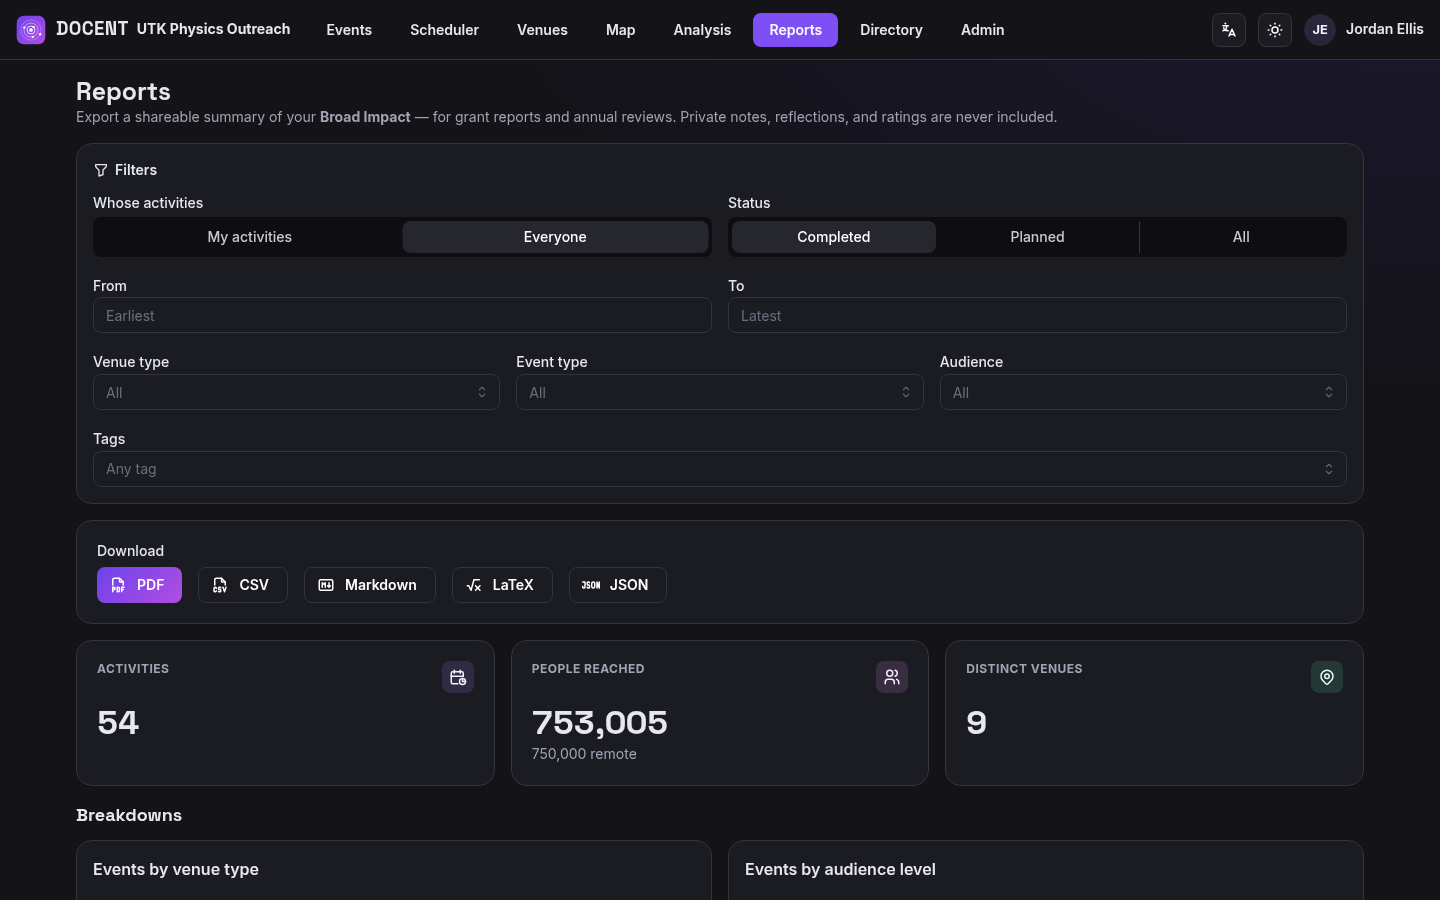
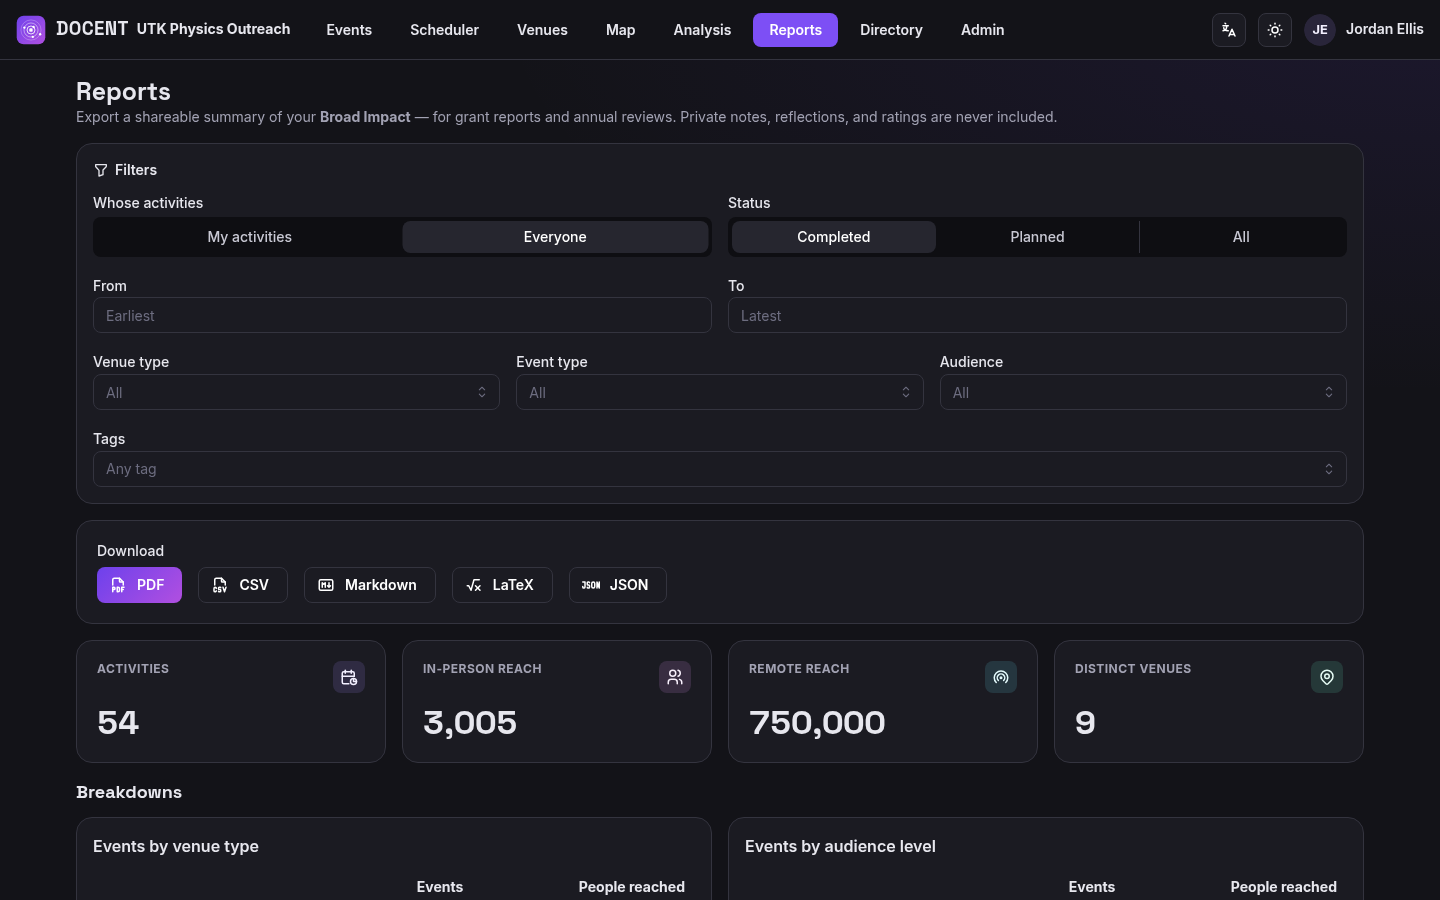
Refine host-relationship wording and split remote vs in-person reach
- #40: relabel the "reached out" host relationship to "Host reached out to
  us" (7 locales) — it means the *host* contacted the communicator, the
  mirror image of cold outreach (communicator → host). Sharpen the model
  comment to make the direction explicit.
- Analysis: show people reached as two separate tiles — in-person and
  remote / broadcast — and drop the average-rating tile to make room.
- Analysis: the "people reached over time" chart now uses two y-axes
  (in-person on the left, remote / broadcast on the right, each axis tinted
  to its series) so a huge broadcast scale no longer flattens the in-person
  line. Axis ticks use compact notation (e.g. 600K).
- Reports: split the people-reached tile into in-person and remote too.
- Regenerate the analysis and reports screenshots.

Claude-Session: https://claude.ai/code/session_01XEQAvLSiFRTpLbrGL8uQrW

diff --git a/frontend/src/pages/DashboardPage.tsx b/frontend/src/pages/DashboardPage.tsx
@@ -20,11 +20,11 @@ import {
 } from '@mantine/core';
 import { useDebouncedValue } from '@mantine/hooks';
 import {
+  IconBroadcast,
   IconCalendarStats,
   IconInfoCircle,
   IconMapPin,
   IconSearch,
-  IconStar,
   IconUserBolt,
   IconUsers,
 } from '@tabler/icons-react';
@@ -186,13 +186,20 @@ function TimePanel({
   // One or more series. A line uses `color` unless it sets its own; `dashed`
   // renders it as a dashed segment (the future/scheduled tail — #28). When a
   // line sets `name`, a legend is shown and the tooltip labels each series (the
-  // in-person vs remote split — #38).
-  lines: { key: string; dashed?: boolean; color?: string; name?: string }[];
+  // in-person vs remote split — #38). A line on `axis: 'right'` draws a second
+  // y-axis so a huge broadcast scale doesn't flatten the in-person line (#38).
+  lines: { key: string; dashed?: boolean; color?: string; name?: string; axis?: 'left' | 'right' }[];
   color: string;
   viz: typeof VIZ_LIGHT;
   caption?: string;
 }) {
   const labelFor = (t: number) => data.find((d) => d.t === t)?.label ?? '';
+  const rightLine = lines.find((ln) => ln.axis === 'right');
+  const hasRight = !!rightLine;
+  const leftColor = (lines.find((ln) => (ln.axis ?? 'left') === 'left')?.color ?? color) as string;
+  const rightColor = (rightLine?.color ?? color) as string;
+  const compact = (n: number) =>
+    new Intl.NumberFormat(undefined, { notation: 'compact', maximumFractionDigits: 1 }).format(n);
   return (
     <Card withBorder p="md">
       <Group justify="space-between" gap="xs" wrap="nowrap" mb="xs">
@@ -219,13 +226,28 @@ function TimePanel({
             minTickGap={8}
           />
           <YAxis
+            yAxisId="left"
             stroke={viz.axis}
-            tick={{ fill: viz.mutedInk, fontSize: 12 }}
+            tick={{ fill: hasRight ? leftColor : viz.mutedInk, fontSize: 12 }}
             tickLine={false}
             axisLine={false}
             width={48}
             allowDecimals={false}
+            tickFormatter={hasRight ? compact : undefined}
           />
+          {hasRight && (
+            <YAxis
+              yAxisId="right"
+              orientation="right"
+              stroke={viz.axis}
+              tick={{ fill: rightColor, fontSize: 12 }}
+              tickLine={false}
+              axisLine={false}
+              width={48}
+              allowDecimals={false}
+              tickFormatter={compact}
+            />
+          )}
           <Tooltip
             contentStyle={tooltipStyle(viz)}
             labelFormatter={(t: number) => labelFor(t)}
@@ -240,6 +262,7 @@ function TimePanel({
           {lines.map((ln) => (
             <Line
               key={ln.key}
+              yAxisId={ln.axis ?? 'left'}
               type="monotone"
               dataKey={ln.key}
               name={ln.name}
@@ -475,10 +498,11 @@ export function DashboardPage() {
 
   const activeRange = RANGES.find((r) => r.value === range);
   const rangeCaption = activeRange ? t(`dashboard.${activeRange.captionKey}`) : '';
-  const avgPerVisit =
-    summary && summary.total_visits > 0
-      ? Math.round(summary.total_people_reached / summary.total_visits)
-      : null;
+  // People reached is shown as two separate tiles — in-person vs remote /
+  // broadcast — because a big broadcast number would otherwise swamp the
+  // in-person figure (#38).
+  const remoteReached = summary?.total_people_reached_remote ?? 0;
+  const inPersonReached = Math.max(0, (summary?.total_people_reached ?? 0) - remoteReached);
 
   return (
     <Stack>
@@ -589,24 +613,23 @@ export function DashboardPage() {
           sub={rangeCaption}
         />
         <StatTile
-          label={t('dashboard.statPeopleReached')}
-          value={summary?.total_people_reached.toLocaleString() ?? '—'}
+          label={t('dashboard.statPeopleInPerson')}
+          value={summary ? inPersonReached.toLocaleString() : '—'}
           icon={IconUsers}
           color="grape"
-          sub={
-            [
-              avgPerVisit != null
-                ? t('dashboard.avgPerVisit', { formattedCount: avgPerVisit.toLocaleString() })
-                : null,
-              (summary?.total_people_reached_remote ?? 0) > 0
-                ? t('dashboard.remoteReachSub', {
-                    formattedCount: summary!.total_people_reached_remote.toLocaleString(),
-                  })
-                : null,
-            ]
-              .filter(Boolean)
-              .join(' · ') || undefined
-          }
+          sub={t('dashboard.avgPerVisit', {
+            formattedCount:
+              summary && summary.total_visits > 0
+                ? Math.round(inPersonReached / summary.total_visits).toLocaleString()
+                : '0',
+          })}
+        />
+        <StatTile
+          label={t('dashboard.statPeopleRemote')}
+          value={summary ? remoteReached.toLocaleString() : '—'}
+          icon={IconBroadcast}
+          color="cyan"
+          sub={t('dashboard.remoteReachTileSub')}
         />
         <StatTile
           label={t('dashboard.statVenuesVisited')}
@@ -622,19 +645,13 @@ export function DashboardPage() {
           color="indigo"
           sub={t('dashboard.contributing')}
         />
-        <StatTile
-          label={t('dashboard.statAvgRating')}
-          value={summary?.avg_rating != null ? `${summary.avg_rating}` : '—'}
-          icon={IconStar}
-          color="yellow"
-          sub={t('dashboard.outOfFive')}
-        />
       </SimpleGrid>
 
       <Title order={3} mt="sm">
         {t('dashboard.overTimeHeading')}
       </Title>
-      {/* Two measures, two panels — never a dual-axis chart. */}
+      {/* Events and people-reached each get their own panel; within the
+          people panel, in-person and remote/broadcast use separate y-axes. */}
       <SimpleGrid cols={{ base: 1, md: 2 }}>
         <Skeleton visible={timeseries === undefined}>
           <TimePanel
@@ -653,7 +670,9 @@ export function DashboardPage() {
             data={chartData}
             ticks={periodTicks}
             // Split in-person vs remote/broadcast reach when any remote reach
-            // exists, otherwise a single combined line (#38).
+            // exists, otherwise a single combined line. The two series get their
+            // own y-axis (in-person left, remote right) so a huge broadcast
+            // scale doesn't flatten the in-person line (#38).
             lines={
               (summary?.total_people_reached_remote ?? 0) > 0
                 ? [
@@ -661,12 +680,14 @@ export function DashboardPage() {
                       key: 'people_reached_in_person',
                       name: t('dashboard.peopleInPerson'),
                       color: viz.series2,
+                      axis: 'left',
                     },
                     {
                       key: 'people_reached_remote',
                       name: t('dashboard.peopleRemote'),
                       color: viz.series1,
                       dashed: true,
+                      axis: 'right',
                     },
                   ]
                 : [{ key: 'people_reached' }]

diff --git a/frontend/src/pages/ReportsPage.tsx b/frontend/src/pages/ReportsPage.tsx
@@ -35,7 +35,7 @@ import {
 import { FilterCard } from '../components/FilterCard';
 import { StatTile } from '../components/StatTile';
 import { useEnumLabel } from '../i18n/enumLabels';
-import { IconCalendarStats, IconMapPin, IconUsers } from '@tabler/icons-react';
+import { IconBroadcast, IconCalendarStats, IconMapPin, IconUsers } from '@tabler/icons-react';
 import { toDateString } from './VisitListPage';
 
 const PREVIEW_LIMIT = 50;
@@ -261,7 +261,7 @@ export function ReportsPage() {
         </Group>
       </Card>
 
-      <SimpleGrid cols={{ base: 1, xs: 3 }}>
+      <SimpleGrid cols={{ base: 1, xs: 2, md: 4 }}>
         <StatTile
           label={t('reports.statActivities')}
           value={data?.summary.total_activities.toLocaleString() ?? '—'}
@@ -269,17 +269,23 @@ export function ReportsPage() {
           color="brand"
         />
         <StatTile
-          label={t('reports.statPeopleReached')}
-          value={data?.summary.total_people_reached.toLocaleString() ?? '—'}
+          label={t('reports.statPeopleInPerson')}
+          value={
+            data
+              ? Math.max(
+                  0,
+                  data.summary.total_people_reached - data.summary.total_people_reached_remote,
+                ).toLocaleString()
+              : '—'
+          }
           icon={IconUsers}
           color="grape"
-          sub={
-            (data?.summary.total_people_reached_remote ?? 0) > 0
-              ? t('dashboard.remoteReachSub', {
-                  formattedCount: data!.summary.total_people_reached_remote.toLocaleString(),
-                })
-              : undefined
-          }
+        />
+        <StatTile
+          label={t('reports.statPeopleRemote')}
+          value={data?.summary.total_people_reached_remote.toLocaleString() ?? '—'}
+          icon={IconBroadcast}
+          color="cyan"
         />
         <StatTile
           label={t('reports.statDistinctVenues')}

diff --git a/backend/app/models.py b/backend/app/models.py
@@ -117,8 +117,9 @@ class HostRelationship(str, enum.Enum):
     community_partner = "community_partner"
     family_friend = "family_friend"
     cold_outreach = "cold_outreach"
-    # The host proactively reached out to the communicator or their
-    # organization to invite them (#40). Use host_relationship_detail to note
+    # The mirror of cold_outreach: the *host* reached out to the communicator
+    # (or their organization) to invite them, rather than the communicator
+    # cold-contacting the host (#40). Use host_relationship_detail to note
     # whether it was the speaker directly or their department/organization.
     reached_out = "reached_out"
     other = "other"
